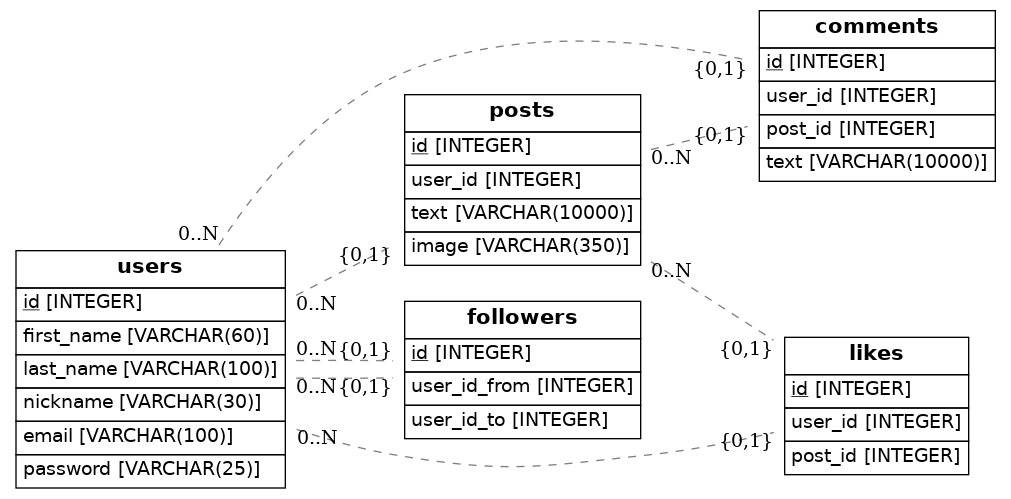
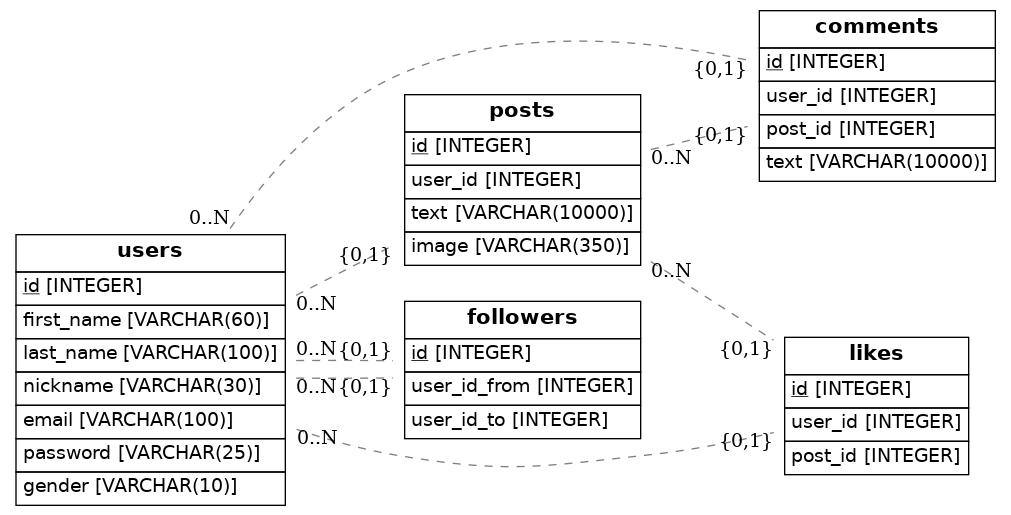
Data modelling done

diff --git a/src/models.py b/src/models.py
@@ -11,51 +11,66 @@ Base = declarative_base()
 
 class Users(Base):
     __tablename__ = 'users'
-    # Here we define columns for the table person
-    # Notice that each column is also a normal Python instance attribute.
+   
     id = Column(Integer, primary_key=True)
     first_name = Column(String(60))
     last_name = Column(String(100))
     nickname = Column(String(30), nullable=False, unique= True)
     email = Column(String(100), nullable=False, unique= True)
     password = Column(String(25), nullable=False)
+    gender = Column(String(10), nullable=False)
+
+    
+    followers = relationship("Followers")
+    like = relationship("Likes")
+    comment = relationship("Comments")
 
 class Posts(Base):
     __tablename__ = 'posts'
-    # Here we define columns for the table person
-    # Notice that each column is also a normal Python instance attribute.
+   
     id = Column(Integer, primary_key=True)
     user_id = Column(Integer, ForeignKey('users.id'))
     text = Column(String(10000), nullable=False)
     image = Column(String(350), nullable=False)
+    
+    
+    user = relationship("Users")
+    comments = relationship("Comments")
+    likes = relationship("Likes")
 
 
 class Comments(Base):
     __tablename__ = 'comments'
-    # Here we define columns for the table person
-    # Notice that each column is also a normal Python instance attribute.
+    
     id = Column(Integer, primary_key=True)
     user_id = Column(Integer, ForeignKey('users.id'))
     post_id = Column(Integer, ForeignKey('posts.id'))
     text = Column(String(10000), nullable=False)
     
 
+    user = relationship("Users")
+    post = relationship("Posts")
+    
+
 class Followers(Base):
     __tablename__ = 'followers'
-    # Here we define columns for the table person
-    # Notice that each column is also a normal Python instance attribute.
+   
     id = Column(Integer, primary_key=True)
     user_id_from = Column(Integer, ForeignKey('users.id'))
     user_id_to = Column(Integer, ForeignKey('users.id'))
 
+    user = relationship("Users")
+
 
 class Likes(Base):
     __tablename__ = 'likes'
-    # Here we define columns for the table person
-    # Notice that each column is also a normal Python instance attribute.
+    
     id = Column(Integer, primary_key=True)
     user_id = Column(Integer, ForeignKey('users.id'))
     post_id = Column(Integer, ForeignKey('posts.id'))
+
+    user = relationship("Users")
+    post = relationship("Posts")
     
 
     def to_dict(self):
